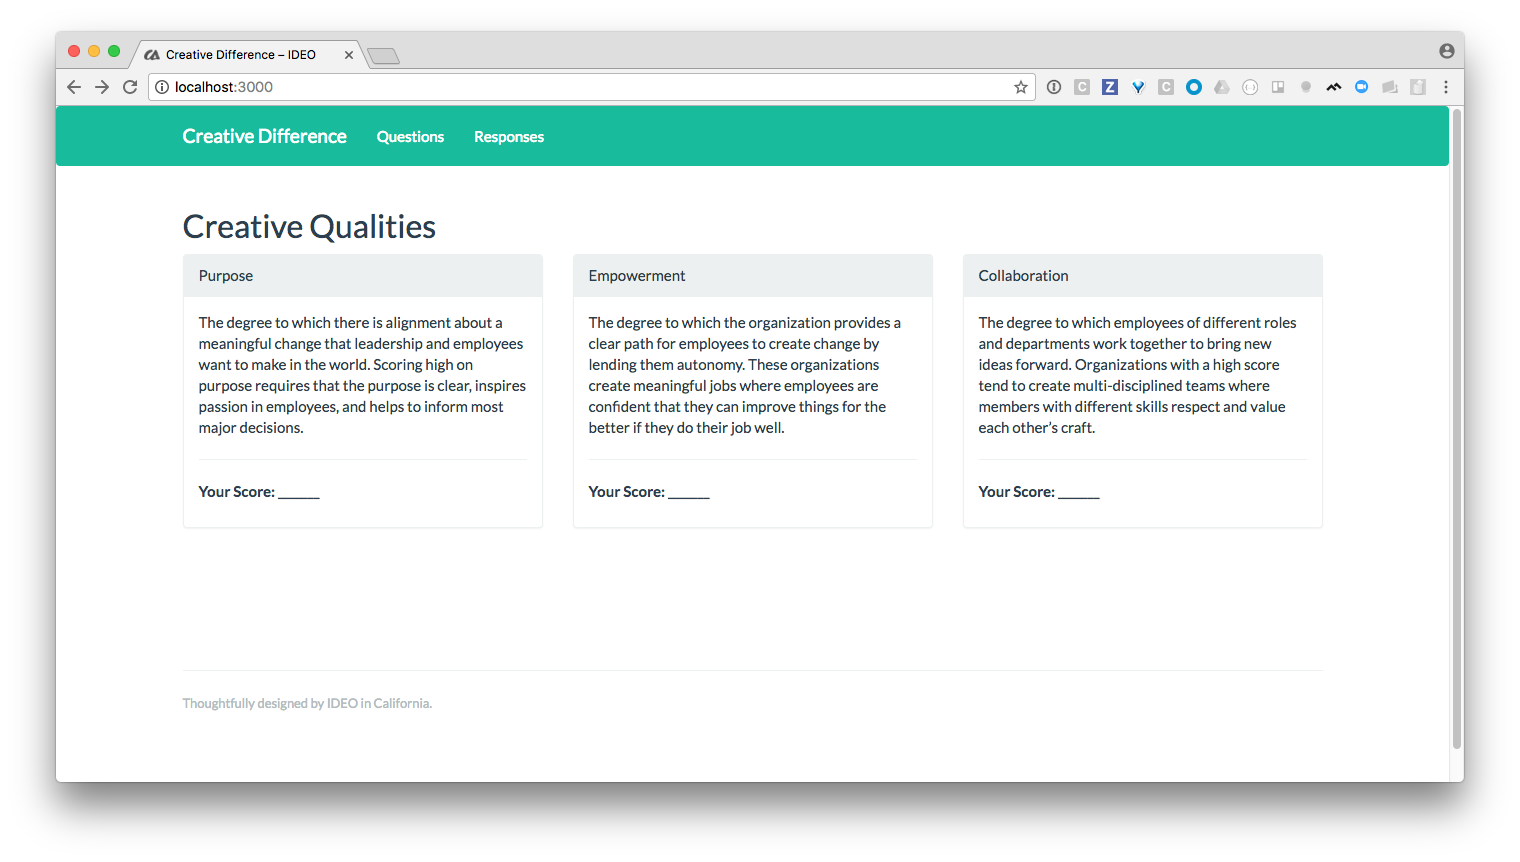
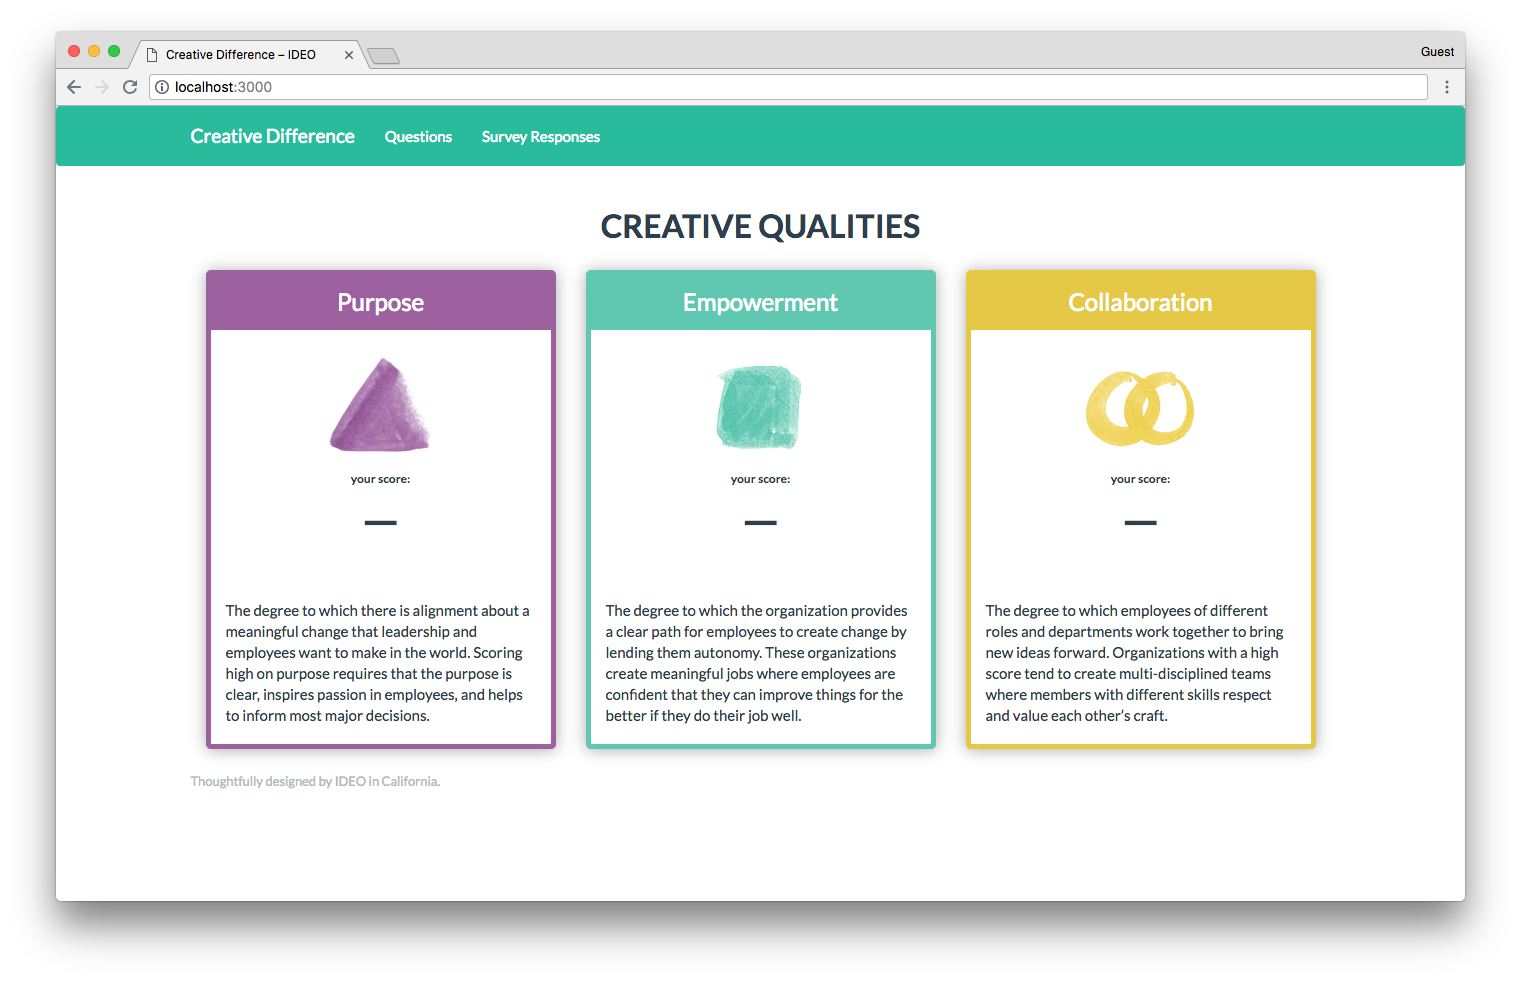
Includes SCSS for styling qualities; updates screenshots

Changed region(s): [[0.1237, 0.2413, 0.8658, 0.8445], [0.0309, 0.0302, 0.9895, 0.2413], [0.0309, 0.9049, 0.9586, 0.935]]

diff --git a/app/assets/stylesheets/qualities.scss b/app/assets/stylesheets/qualities.scss
@@ -1,0 +1,80 @@
+.qualities {
+  margin-top: 16px;
+
+  .panel {
+    text-align: center;
+    border-width: 5px;
+    border-radius: 5px;
+    box-shadow: 0px 1px 24px 0px rgba(0,0,0,0.33);
+
+    &-Collaboration {
+      border-color: #e6c937;
+      .panel-heading {
+        background: #e6c937;
+      }
+    }
+    &-Empowerment {
+      border-color: #5bc9b0;
+      .panel-heading {
+        background: #5bc9b0;
+      }
+    }
+    &-Purpose {
+      border-color: #9e5fa0;
+      .panel-heading {
+        background: #9e5fa0;
+      }
+    }
+  }
+
+  h2 {
+    text-align: center;
+    text-transform: uppercase;
+    font-weight: bold;
+    margin-bottom: 24px;
+  }
+
+  p {
+    text-align: left;
+    margin-bottom: 3px;
+  }
+
+  .score {
+    small {
+      display: block;
+      font-size: 12px;
+    }
+    font-size: 46px;
+    font-weight: bold;
+    margin-bottom: 48px;
+  }
+
+  .panel-heading {
+    color: white;
+    border-radius: 0;
+    font-size: 24px;
+  }
+
+  .panel-body {
+    border-radius: 3px;
+  }
+
+  .quality {
+    height: 125px;
+    width: 125px;
+    margin: 0 auto;
+    text-align: center;
+    background-size: 100%;
+    &-Collaboration {
+      background-image: url(image_path('qualityIcons/collaboration.png'));
+    }
+    &-Empowerment {
+      background-image: url(image_path('qualityIcons/empowerment.png'));
+    }
+    &-Purpose {
+      background-image: url(image_path('qualityIcons/purpose.png'));
+    }
+
+  }
+
+}

diff --git a/app/javascript/components/App.js b/app/javascript/components/App.js
@@ -1,13 +1,21 @@
 import React, { Component } from "react"
+import styled from 'styled-components'
+
+const StyledHeader = styled.h1`
+  font-size: 32px;
+  text-transform: uppercase;
+  font-weight: bold;
+  text-align: center;
+`
 
 class App extends Component {
   render () {
     return (
       <div className="row">
         <div className="col-md-12">
-          <h2>
+          <StyledHeader>
             Creative Qualities
-          </h2>
+          </StyledHeader>
         </div>
       </div>
     )

diff --git a/app/assets/stylesheets/application.scss b/app/assets/stylesheets/application.scss
@@ -3,3 +3,4 @@
 @import "bootstrap";
 @import "rails_bootstrap_forms";
 @import "bootswatch/flatly/bootswatch";
+@import "qualities";

diff --git a/app/controllers/creative_qualities_controller.rb b/app/controllers/creative_qualities_controller.rb
@@ -1,5 +1,10 @@
 class CreativeQualitiesController < ApplicationController
+  include ApplicationHelper
   def index
     @creative_qualities = CreativeQuality.all
+    respond_to do |format|
+      format.html
+      format.json { render json: mock_creative_quality_scores }
+    end
   end
 end

diff --git a/config/routes.rb b/config/routes.rb
@@ -1,6 +1,7 @@
 Rails.application.routes.draw do
   resources :questions, only: [:show, :index]
   resources :survey_responses, only: [:show, :index]
+  resources :creative_qualities, only: [:index]
 
   root to: 'creative_qualities#index'
 end

diff --git a/app/helpers/application_helper.rb b/app/helpers/application_helper.rb
@@ -1,6 +1,6 @@
 module ApplicationHelper
   def mock_creative_quality_scores
-    scores = [67, -25, 67]
+    scores = [67, -25, 50]
     data = []
 
     CreativeQuality
